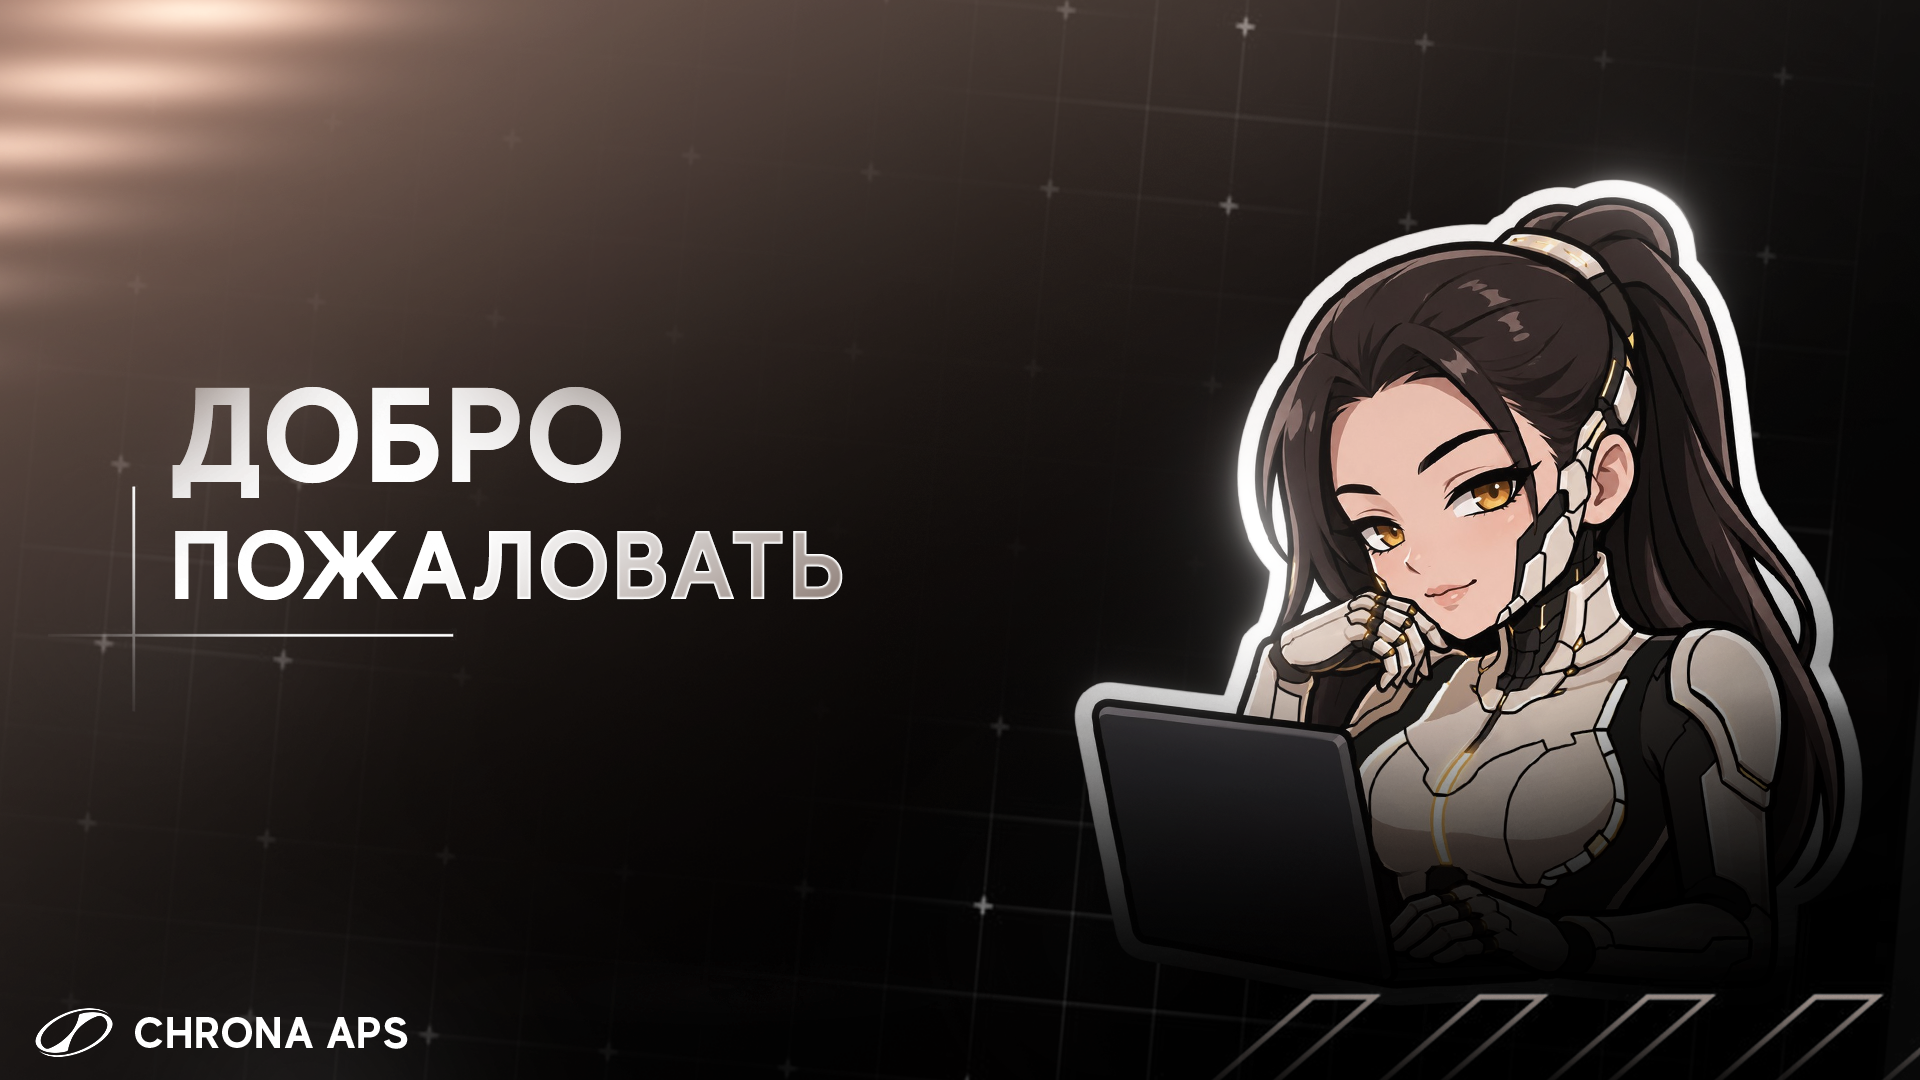
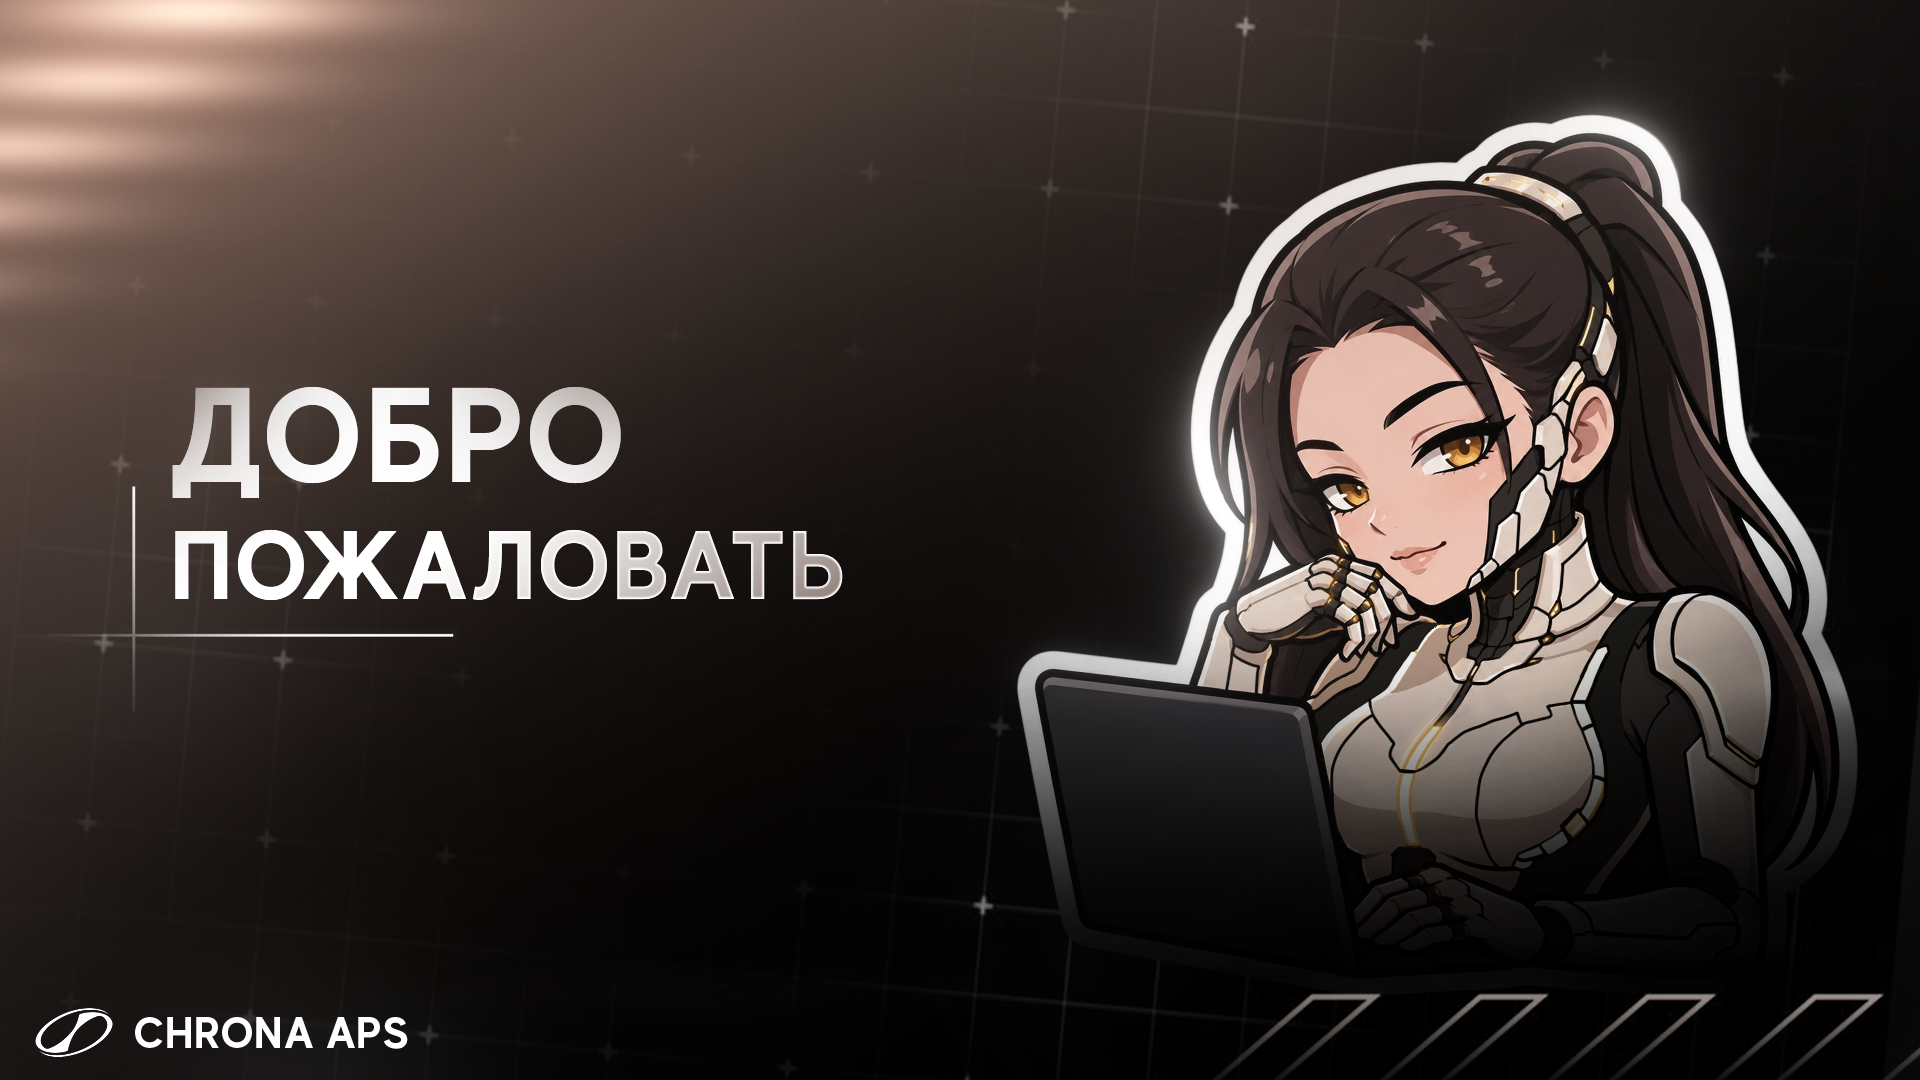
new media

Changed region(s): [[0.5312, 0.0917, 0.9688, 0.8556]]

diff --git a/backend/app/integrations/telegram/handlers/start.py b/backend/app/integrations/telegram/handlers/start.py
@@ -29,8 +29,9 @@ async def pick_tz_start(call: CallbackQuery):
         await call.answer("Неизвестный пояс, попробуй ещё раз", show_alert=True)
         return
     await UserService.set_tz(call.from_user.id, iana)
-    await call.message.edit_caption(
-        caption="Часовой пояс сохранён. Теперь ты можешь пользоваться ботом.",
+    await call.message.edit_media(media=InputMediaPhoto(
+        media=get_photo("success"),
+        caption="Часовой пояс сохранён. Теперь ты можешь пользоваться ботом."),
         reply_markup=None
     )
     await call.answer()

diff --git a/backend/app/integrations/telegram/utils/media.py b/backend/app/integrations/telegram/utils/media.py
@@ -3,7 +3,8 @@ from aiogram.types import FSInputFile, InputMediaPhoto, InputMediaVideo
 
 
 media_dict = {
-    "start": "app/integrations/telegram/media/start.png"
+    "start": "app/integrations/telegram/media/start.png",
+    "success": "app/integrations/telegram/media/success.png"
 }
 
 def get_photo(key: str)->FSInputFile:
